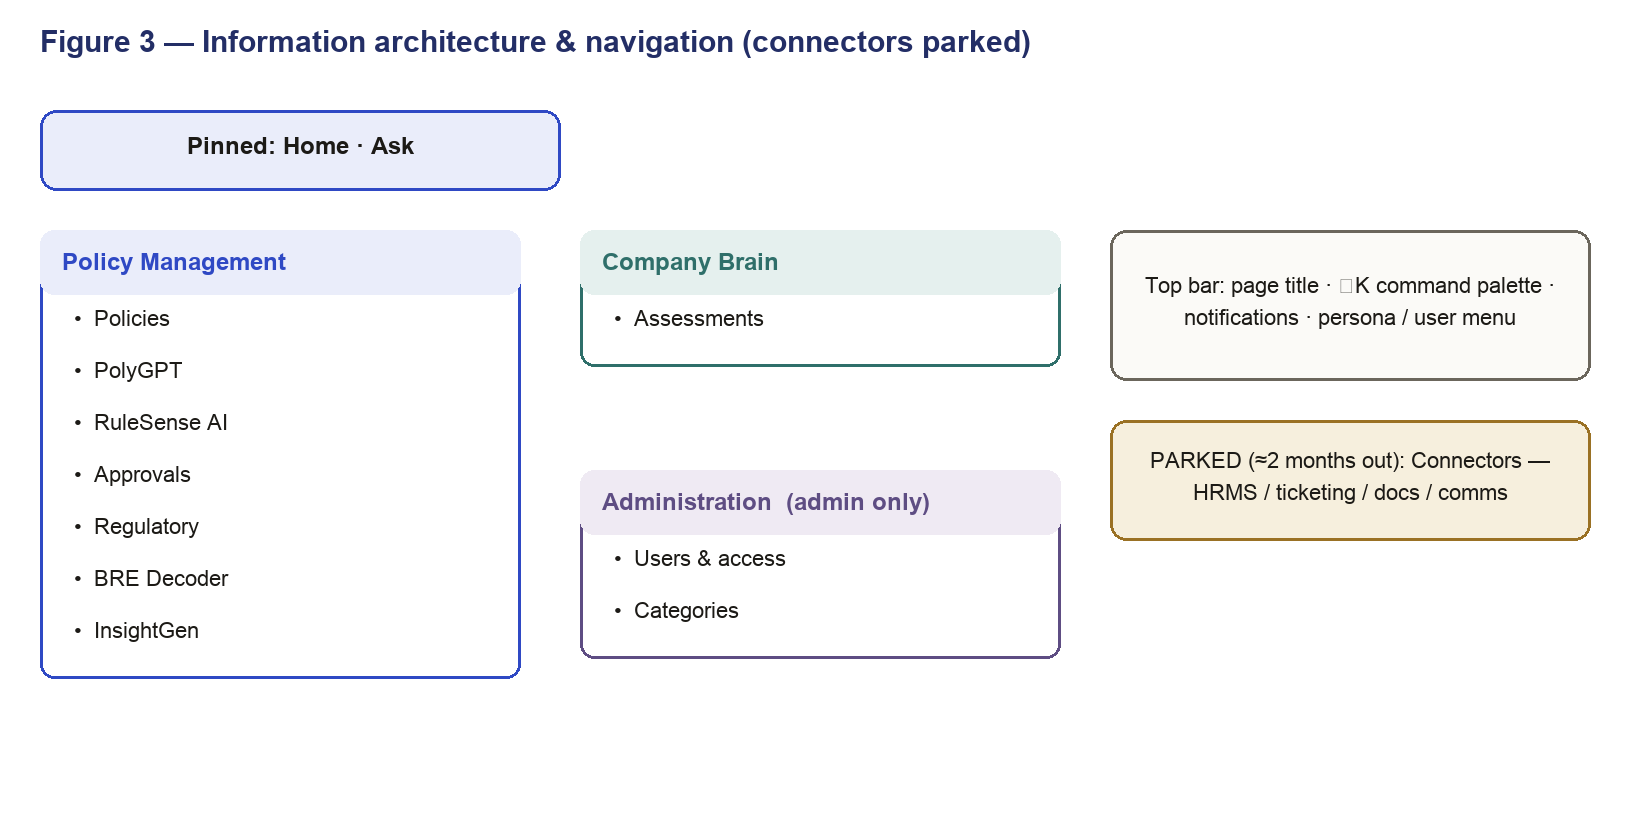
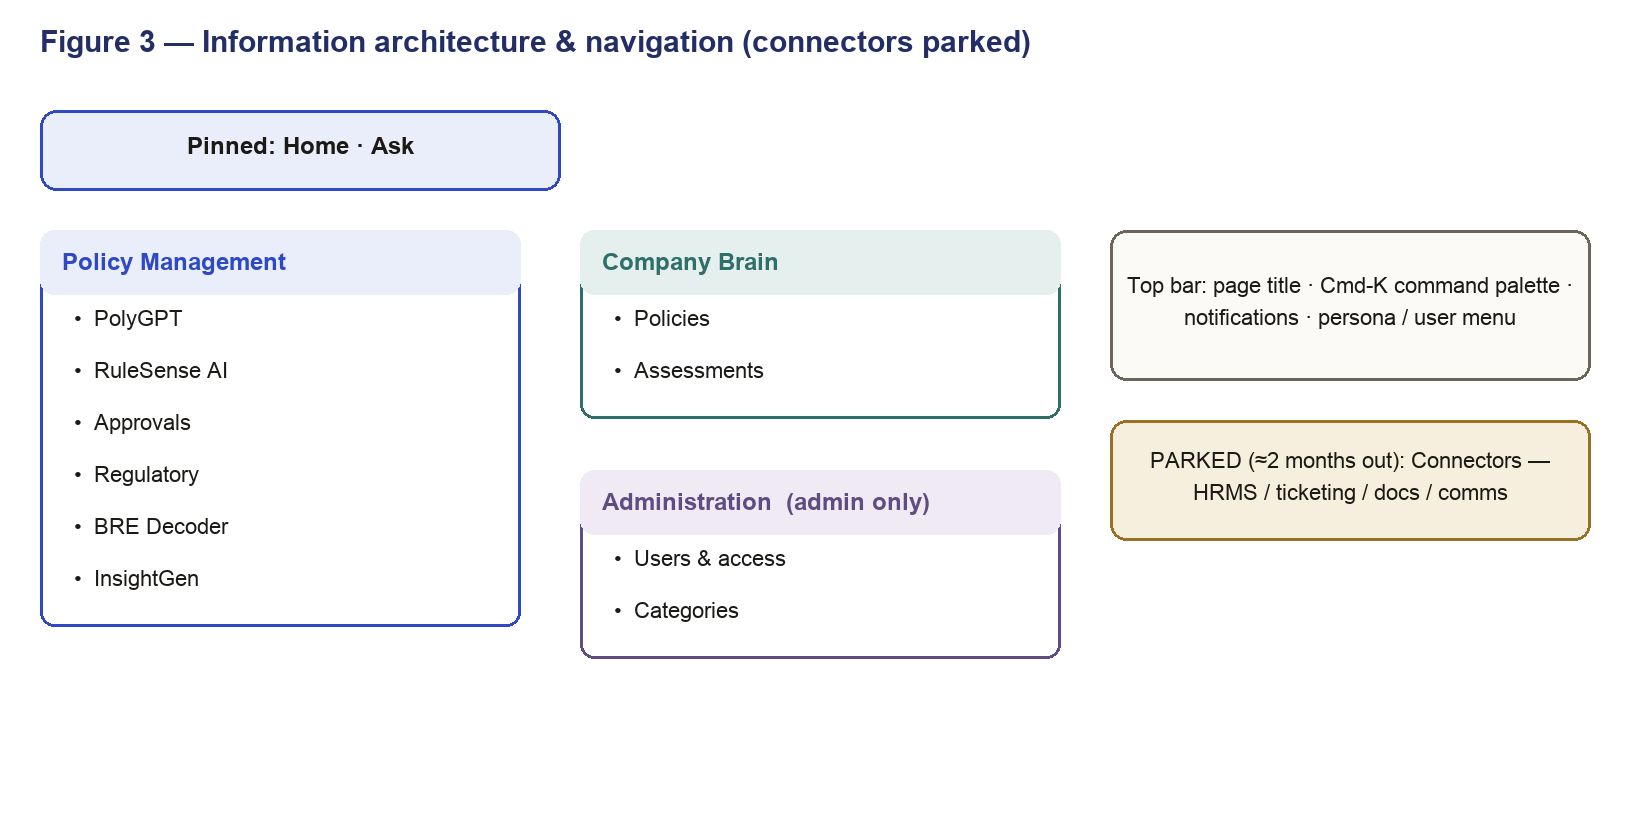
done

diff --git a/views/regulatory.js b/views/regulatory.js
@@ -20,6 +20,9 @@ App.regulatoryView = {
   editor: null,        // { policyId, idx }
   _st: {},             // per-change state: { status:'pending'|'accepted'|'rejected'|'suggested', comment, suggestText, cmtOpen, sent }
   _audit: [],          // module audit trail (most-recent first)
+  autorun: true,       // ON = every release auto-maps onto the affected policies (populates "Policies to review")
+  _amd: {},            // per-release overrides: { decided:'pending'|'in'|'out', removed:{pid:1}, added:[changeObj] }
+  _pickWf: null,       // workflow chosen in the send-for-approval dialog
 
   _refresh() {
     const root = document.getElementById('viewRoot'); if (!root) return;
@@ -28,15 +31,67 @@ App.regulatoryView = {
   },
   _canEdit() { const r = App.currentUser().role; return r === 'admin' || r === 'policy_manager' || r === 'risk_approver'; },
 
+  /* ---------------- per-release override state ---------------- */
+  _amdSt(id) { if (!this._amd[id]) this._amd[id] = { decided: 'pending', removed: {}, added: [] }; return this._amd[id]; },
+  _included(a) { return this.autorun || this._amdSt(a.id).decided === 'in'; },  // is this release in the "Policies to review" queue?
+  // the change set for one release after the reviewer's add/remove of affected policies
+  _effectiveChanges(a) {
+    const st = this._amdSt(a.id);
+    const chs = (a.changes || []).filter(c => !st.removed[c.policyId]);
+    return (st.added && st.added.length) ? chs.concat(st.added) : chs;
+  },
+  _effectivePolicyIds(a) { const seen = {}, out = []; this._effectiveChanges(a).forEach(c => { if (!seen[c.policyId]) { seen[c.policyId] = 1; out.push(c.policyId); } }); return out; },
+
   /* ---------------- aggregation ---------------- */
+  // every suggested change across all releases (respects add/remove, ignores queue inclusion) - drives the editor + stats
   _allChanges() {
     const out = [];
-    (DB.amendments || []).forEach(a => (a.changes || []).forEach(ch => out.push(Object.assign({}, ch, { amendment: a }))));
+    (DB.amendments || []).forEach(a => this._effectiveChanges(a).forEach(ch => out.push(Object.assign({}, ch, { amendment: a }))));
     return out;
   },
   _changesForPolicy(pid) { return this._allChanges().filter(c => c.policyId === pid); },
   _affectedPolicies() { const seen = {}, out = []; this._allChanges().forEach(c => { if (!seen[c.policyId]) { seen[c.policyId] = 1; out.push(c.policyId); } }); return out; },
+  // policies that belong in the "Policies to review" queue (autorun ON = all; OFF = only releases moved in)
+  _reviewPolicies() {
+    const seen = {}, out = [];
+    (DB.amendments || []).forEach(a => { if (!this._included(a)) return; this._effectivePolicyIds(a).forEach(pid => { if (!seen[pid]) { seen[pid] = 1; out.push(pid); } }); });
+    return out;
+  },
   _amendmentsForPolicy(pid) { const seen = {}, out = []; this._changesForPolicy(pid).forEach(c => { if (!seen[c.amendment.id]) { seen[c.amendment.id] = 1; out.push(c.amendment); } }); return out; },
+
+  /* ---------------- autorun toggle + per-release decisions / policy add-remove ---------------- */
+  _toggleAutorun() { this.autorun = !this.autorun; this._log('Auto-mapping ' + (this.autorun ? 'on' : 'off'), this.autorun ? 'Releases map onto policies automatically' : 'Reviewer decides which releases enter the queue'); this._refresh(); },
+  _promote(id) { this._amdSt(id).decided = 'in'; const a = (DB.amendments || []).find(x => x.id === id); this._log('Moved release to review', a ? (a.ref + ' - ' + a.title) : id); this._refresh(); },
+  _dismiss(id) { this._amdSt(id).decided = 'out'; const a = (DB.amendments || []).find(x => x.id === id); this._log('Dismissed release', a ? (a.ref + ' - ' + a.title) : id); this._refresh(); },
+  _resetDecision(id) { this._amdSt(id).decided = 'pending'; this._refresh(); },
+  _removePolicy(amdId, pid) {
+    const st = this._amdSt(amdId); st.added = (st.added || []).filter(c => c.policyId !== pid); st.removed[pid] = 1;
+    const a = (DB.amendments || []).find(x => x.id === amdId); const p = App.policy(pid);
+    this._log('Removed affected policy', (p ? p.name : pid) + ' from ' + (a ? a.ref : amdId)); this._refresh();
+  },
+  _addPolicyModal(amdId) {
+    const a = (DB.amendments || []).find(x => x.id === amdId); if (!a) return;
+    const have = {}; this._effectivePolicyIds(a).forEach(pid => have[pid] = 1);
+    const opts = DB.policies.filter(p => !have[p.id] && App.canViewPolicy(p, App.currentUser()));
+    App.openModal({
+      title: 'Add an affected policy', sub: a.regulator + ' · ' + a.ref + ' - pick a policy this release should also touch.',
+      body: opts.length ? `<div class="reg-picklist">${opts.map(p => `<button class="reg-pick" onclick="App.regulatoryView._addPolicy('${amdId}','${p.id}')">${App.icon('file')}<div style="flex:1;text-align:left"><b>${App.esc(p.name)}</b><div class="muted" style="font-size:12px">${App.esc(p.category)} · ${App.esc(p.sub)}</div></div>${App.icon('plus')}</button>`).join('')}</div>`
+        : App.ui.empty('file', 'No more policies to add', 'Every policy you can access is already mapped to this release.'),
+      footer: `<button class="btn" onclick="App.closeModal()">Close</button>`
+    });
+  },
+  _addPolicy(amdId, pid) {
+    const a = (DB.amendments || []).find(x => x.id === amdId); const p = App.policy(pid); if (!a || !p) return;
+    const st = this._amdSt(amdId); delete st.removed[pid];
+    const already = (a.changes || []).some(c => c.policyId === pid) || (st.added || []).some(c => c.policyId === pid);
+    if (!already) {
+      const fk = Object.keys(p.facts || {})[0] || 'Clause';
+      st.added.push({ id: 'MAN-' + amdId + '-' + pid, policyId: pid, clauseRef: 'Manual review', section: fk,
+        current: (p.facts && p.facts[fk]) || '(current)', suggested: (p.facts && p.facts[fk]) || '',
+        rationale: 'Manually flagged for review against ' + a.regulator + ' ' + a.ref + '. Edit the policy directly, then send for approval.', manual: true });
+    }
+    this._log('Added affected policy', p.name + ' to ' + a.ref); App.closeModal(); this._refresh();
+  },
   st(id) { if (!this._st[id]) this._st[id] = { status: 'pending', comment: '', suggestText: '', cmtOpen: false, sent: false }; return this._st[id]; },
   _log(action, detail) { const u = App.currentUser(); let ts = ''; try { ts = new Date().toLocaleString(); } catch (e) {} this._audit.unshift({ t: ts, user: u ? u.name : '-', role: u ? (DB.roleLabels[u.role] || u.role) : '', action: action, detail: detail || '' }); },
   _auditModal() {
@@ -50,21 +105,37 @@ App.regulatoryView = {
   _renderList(ctx) {
     const all = this._allChanges();
     const affected = this._affectedPolicies();
+    const review = this._reviewPolicies();
     const resolved = all.filter(c => this.st(c.id).status !== 'pending').length;
     const stat = (n, label, ic) => `<div class="reg-stat"><div class="reg-stat__ic">${App.icon(ic)}</div><div><div class="reg-stat__n">${n}</div><div class="reg-stat__l">${label}</div></div></div>`;
 
+    const canEdit = this._canEdit();
     const rel = (DB.amendments || []).map(a => {
-      const pols = []; const seen = {};
-      a.changes.forEach(ch => { if (!seen[ch.policyId]) { seen[ch.policyId] = 1; pols.push(ch.policyId); } });
-      const chips = pols.map(pid => { const p = App.policy(pid); return `<button class="amd-pol" onclick="App.regulatoryView.openEditor('${pid}')">${App.icon('file')} ${p ? App.esc(p.name) : pid}</button>`; }).join('');
-      return `<div class="reg-rel" id="regRelRow" data-n="${App.esc((a.title + ' ' + a.ref + ' ' + a.regulator).toLowerCase())}">
-        <div class="reg-rel__h">${App.ui.pill(a.regulator, 'blue')} <b>${App.esc(a.title)}</b><span class="muted" style="font-size:12px">· ${App.esc(a.ref)} · ${App.esc(a.date)}</span><div style="flex:1"></div>${App.ui.pill(a.changes.length + ' change' + (a.changes.length === 1 ? '' : 's') + ' · ' + pols.length + ' polic' + (pols.length === 1 ? 'y' : 'ies'), 'amber', true)}</div>
+      const st = this._amdSt(a.id);
+      const pols = this._effectivePolicyIds(a);
+      const chCount = this._effectiveChanges(a).length;
+      const included = this._included(a);
+      const dismissed = !this.autorun && st.decided === 'out';
+      const chips = pols.map(pid => { const p = App.policy(pid);
+        return `<span class="amd-pol${canEdit ? ' amd-pol--rm' : ''}"><button class="amd-pol__open" onclick="App.regulatoryView.openEditor('${pid}')">${App.icon('file')} ${p ? App.esc(p.name) : pid}</button>${canEdit ? `<button class="amd-pol__x" title="Remove this policy from the release" onclick="event.stopPropagation();App.regulatoryView._removePolicy('${a.id}','${pid}')">${App.icon('x')}</button>` : ''}</span>`;
+      }).join('');
+      const addBtn = canEdit ? `<button class="amd-addpol" onclick="App.regulatoryView._addPolicyModal('${a.id}')">${App.icon('plus')} Add policy</button>` : '';
+      // decision row appears only when auto-mapping is OFF
+      let decision = '';
+      if (!this.autorun && canEdit) {
+        if (st.decided === 'in') decision = `<div class="reg-rel__decide">${App.ui.pill('Moved to review', 'green', true)}<button class="btn btn--sm" onclick="App.regulatoryView._resetDecision('${a.id}')">Undo</button></div>`;
+        else if (st.decided === 'out') decision = `<div class="reg-rel__decide">${App.ui.pill('Dismissed', 'gray', true)}<button class="btn btn--sm" onclick="App.regulatoryView._resetDecision('${a.id}')">Undo</button></div>`;
+        else decision = `<div class="reg-rel__decide"><span class="muted" style="font-size:12px">Move this release into review?</span><button class="btn btn--sm chg-ok" onclick="App.regulatoryView._promote('${a.id}')">${App.icon('check')} Move to review</button><button class="btn btn--sm chg-no" onclick="App.regulatoryView._dismiss('${a.id}')">${App.icon('x')} Dismiss</button></div>`;
+      }
+      return `<div class="reg-rel${dismissed ? ' is-dismissed' : ''}${!this.autorun && st.decided === 'in' ? ' is-inreview' : ''}" id="regRelRow" data-n="${App.esc((a.title + ' ' + a.ref + ' ' + a.regulator).toLowerCase())}">
+        <div class="reg-rel__h">${App.ui.pill(a.regulator, 'blue')} <b>${App.esc(a.title)}</b><span class="muted" style="font-size:12px">· ${App.esc(a.ref)} · ${App.esc(a.date)}</span><div style="flex:1"></div>${App.ui.pill(chCount + ' change' + (chCount === 1 ? '' : 's') + ' · ' + pols.length + ' polic' + (pols.length === 1 ? 'y' : 'ies'), 'amber', true)}</div>
         <p class="reg-rel__sum">${App.esc(a.summary)}</p>
-        <div class="reg-rel__pols">${chips}</div>
+        <div class="reg-rel__pols">${chips}${addBtn}</div>
+        ${decision}
       </div>`;
     }).join('');
 
-    const polRows = affected.map(pid => {
+    const polRows = review.map(pid => {
       const p = App.policy(pid); const chs = this._changesForPolicy(pid); const amds = this._amendmentsForPolicy(pid);
       const res = chs.filter(c => this.st(c.id).status !== 'pending').length; const done = res === chs.length;
       return `<div class="reg-polrow">
@@ -86,8 +157,14 @@ App.regulatoryView = {
         ${stat(resolved, 'reviewed', 'check')}
       </div>
       <h3 style="margin:18px 0 10px;font-size:15px">Policies to review</h3>
-      <div class="card"><div class="card__body" style="padding:6px 16px">${polRows}</div></div>
-      <h3 style="margin:22px 0 10px;font-size:15px">New regulatory releases</h3>
+      <div class="card"><div class="card__body" style="padding:6px 16px">${polRows || App.ui.empty('check', this.autorun ? 'Nothing to review' : 'No releases in the queue', this.autorun ? 'New releases will map onto the affected policies here.' : 'Auto-mapping is off - move a release into review from the list below.')}</div></div>
+      <div class="reg-relhead">
+        <h3 style="font-size:15px;margin:0">New regulatory releases</h3>
+        <div style="flex:1"></div>
+        ${canEdit ? `<span class="reg-toggle__lbl">Auto-map to affected policies</span>
+          <button class="switch${this.autorun ? ' is-on' : ''}" role="switch" aria-checked="${this.autorun}" title="${this.autorun ? 'On - releases map onto policies automatically' : 'Off - you decide which releases enter review'}" onclick="App.regulatoryView._toggleAutorun()"><span class="switch__dot"></span></button>` : ''}
+      </div>
+      ${canEdit && !this.autorun ? `<div class="info-banner" style="margin-top:0">${App.icon('info')} <span>Auto-mapping is <strong>off</strong>. Tick <strong>Move to review</strong> on a release to send its policies to the queue above, or <strong>Dismiss</strong> to skip it. You can also add or remove the affected policies on any release.</span></div>` : ''}
       <div class="toolbar"><div class="search-input">${App.icon('search')}<input id="regSearch" placeholder="Search releases…"/></div></div>
       ${rel}
     </div>`;
@@ -271,27 +348,74 @@ App.regulatoryView = {
     } catch (e) {}
     App.toast('Opening print view - Save as PDF, sign, then submit to your approval workflow', 'ok');
   },
+  /* Send for approval → first pick the approval workflow (from Approvals › Manage Workflows),
+     so the change follows a defined level-by-level maker-checker chain. */
+  _preferredWorkflow(p) {
+    const wfs = DB.workflows || [];
+    return (p && wfs.find(w => w.category === p.category)) || wfs[0] || null;
+  },
+  _wfChainHtml(w) {
+    if (!w) return '<p class="muted">No workflow defined.</p>';
+    return w.levels.map(l => {
+      const who = l.users.map(uid => { const e = App.emp(uid); return e ? App.esc(e.name) : uid; }).join(', ');
+      const crit = l.criteria === 'All' ? 'All must approve' : l.criteria === 'Anyone' ? 'Anyone can approve' : 'Custom rule';
+      return `<div class="wf-lvl"><span class="step"><span class="step__num">${l.n}</span></span><div style="flex:1"><b style="font-weight:600;font-size:12.5px">Level ${l.n}</b> <span class="tag">${crit}</span><div class="muted" style="font-size:12px;margin-top:2px">${who}</div></div></div>`;
+    }).join('');
+  },
+  _wfOptionHtml(w, sel) {
+    const users = new Set(); w.levels.forEach(l => l.users.forEach(u => users.add(u)));
+    return `<label class="wf-opt${sel ? ' is-sel' : ''}" onclick="App.regulatoryView._pickWorkflow('${w.id}')"><span class="wf-opt__radio"></span>
+      <div style="flex:1"><b style="font-weight:600">${App.esc(w.name)}</b><div class="muted" style="font-size:12px">${App.esc(w.category)} · ${w.levels.length} level${w.levels.length === 1 ? '' : 's'} · ${users.size} approver${users.size === 1 ? '' : 's'}</div></div>
+      ${App.ui.pill(w.status, 'green')}</label>`;
+  },
+  _pickWorkflow(id) {
+    this._pickWf = id;
+    document.querySelectorAll('#wfPick .wf-opt').forEach(el => el.classList.remove('is-sel'));
+    const idx = (DB.workflows || []).findIndex(w => w.id === id);
+    const opts = document.querySelectorAll('#wfPick .wf-opt'); if (opts[idx]) opts[idx].classList.add('is-sel');
+    const chain = document.getElementById('wfChain'); const w = (DB.workflows || []).find(x => x.id === id);
+    if (chain) chain.innerHTML = `<div class="login__label" style="margin-top:14px">Approval chain</div>${this._wfChainHtml(w)}`;
+  },
   _sendApproval() {
     const pid = this.editor.policyId; const p = App.policy(pid);
     const chs = this._changesForPolicy(pid).filter(c => { const s = this.st(c.id); return (s.status === 'accepted' || s.status === 'suggested') && !s.sent; });
     if (!chs.length) { App.toast('Approve or suggest at least one change first', 'warn'); return; }
+    const pref = this._preferredWorkflow(p); this._pickWf = pref ? pref.id : null;
+    App.openModal({
+      title: 'Send for approval', sub: chs.length + ' change' + (chs.length === 1 ? '' : 's') + ' on ' + (p ? p.name : pid) + ' - choose the workflow it should follow.', lg: true,
+      body: `<div class="info-banner" style="margin-top:0">${App.icon('shield')} <span>The change routes through this maker-checker chain, level by level. The requester can never self-approve.</span></div>
+        <div class="login__label">Approval workflow</div>
+        <div id="wfPick">${(DB.workflows || []).map(w => this._wfOptionHtml(w, pref && w.id === pref.id)).join('')}</div>
+        <div id="wfChain"><div class="login__label" style="margin-top:14px">Approval chain</div>${this._wfChainHtml(pref)}</div>`,
+      footer: `<button class="btn" onclick="App.closeModal()">Cancel</button><button class="btn btn--primary" onclick="App.regulatoryView._confirmSend()">${App.icon('send')} Send ${chs.length} change${chs.length === 1 ? '' : 's'}</button>`
+    });
+  },
+  _confirmSend(wfId) {
+    wfId = wfId || this._pickWf;
+    const wf = (DB.workflows || []).find(w => w.id === wfId) || null;
+    const pid = this.editor.policyId; const p = App.policy(pid);
+    const chs = this._changesForPolicy(pid).filter(c => { const s = this.st(c.id); return (s.status === 'accepted' || s.status === 'suggested') && !s.sent; });
+    if (!chs.length) { App.toast('Approve or suggest at least one change first', 'warn'); return; }
     const me = (App.state.user && App.state.user.id) || 'THQ0144'; let n = 0;
+    const firstLevel = wf && wf.levels && wf.levels.length ? wf.levels[0].n : 1;
     chs.forEach(ch => {
       const s = this.st(ch.id); const a = ch.amendment; const to = s.status === 'suggested' ? (s.suggestText || ch.suggested) : ch.suggested;
       const dup = DB.approvals.some(x => x.policy === pid && x.change && x.change.field === ch.section && x.change.to === to && x.sourceRef === a.ref);
       if (!dup) {
         DB.approvals.unshift({ id: 'REQ-' + (2000 + DB.approvals.length), name: (p ? p.name : pid) + ' - ' + ch.section + ' → ' + to,
-          type: 'Regulatory Change', policy: pid, requestedBy: me, on: '23 Jun 2026', priority: 'High', status: 'Pending L1',
+          type: 'Regulatory Change', policy: pid, requestedBy: me, on: '23 Jun 2026', priority: 'High', status: 'Pending L' + firstLevel,
           change: { field: ch.section, from: ch.current, to: to },
           rationale: ch.rationale + (s.status === 'suggested' ? '  Reviewer wording: ' + to : '') + (s.comment ? '  Note: ' + s.comment : ''),
           complianceFlag: 'Matches ' + a.regulator + ' ' + a.ref + ' (' + a.date + '), clause ' + ch.clauseRef + '.',
-          citations: [{ kind: 'policy', id: pid, anchor: ch.section }], sourceRef: a.ref });
+          citations: [{ kind: 'policy', id: pid, anchor: ch.section }], sourceRef: a.ref,
+          workflowId: wf ? wf.id : null, workflow: wf ? wf.name : null });
         n++;
       }
       s.sent = true;
     });
-    this._log('Sent for approval', (p ? p.name : pid) + ' · ' + n + ' change' + (n === 1 ? '' : 's'));
-    App.toast(n ? (n + ' change' + (n === 1 ? '' : 's') + ' sent to Approvals') : 'Already sent for approval', n ? 'ok' : 'warn');
+    this._log('Sent for approval', (p ? p.name : pid) + ' · ' + n + ' change' + (n === 1 ? '' : 's') + (wf ? ' · ' + wf.name : ''));
+    if (App.state.route === 'regulatory') App.closeModal();
+    App.toast(n ? (n + ' change' + (n === 1 ? '' : 's') + ' sent' + (wf ? ' via ' + wf.name : ' to Approvals')) : 'Already sent for approval', n ? 'ok' : 'warn');
     this._syncStep();
   },
 

diff --git a/_selftest.js b/_selftest.js
@@ -199,7 +199,7 @@ chk(Object.keys(_pols58).length >= 3, 'Regulatory: one amendment (AMD-58) affect
 var _plChanges = App.regulatoryView._changesForPolicy('P-PL');
 var _plAmds = {}; _plChanges.forEach(function(c){_plAmds[c.amendment.id]=1;});
 chk(_plChanges.length >= 3 && Object.keys(_plAmds).length >= 2, 'Regulatory: one policy (P-PL) collects changes from multiple amendments');
-chk(typeof App.regulatoryView.openEditor==='function' && typeof App.regulatoryView._downloadPdf==='function' && typeof App.regulatoryView._downloadWord==='function' && typeof App.regulatoryView._sendApproval==='function', 'Regulatory: editor + PDF/Word download + send-for-approval all present');
+chk(typeof App.regulatoryView.openEditor==='function' && typeof App.regulatoryView._downloadPdf==='function' && typeof App.regulatoryView._downloadWord==='function' && typeof App.regulatoryView._sendApproval==='function' && typeof App.regulatoryView._confirmSend==='function', 'Regulatory: editor + PDF/Word download + send-for-approval (workflow chooser) all present');
 chk(App.pdf.build('amendment','AMD-58').pages.length >= 2, 'PDF: amendment renders as a circular-style PDF (left pane)');
 App.regulatoryView.openEditor('P-PL');
 var _ed=null; try { _ed = App.regulatoryView._renderEditor(); } catch(e){ _ed = 'ERR '+e; }
@@ -218,12 +218,40 @@ var _apprBefore = DB.approvals.length;
 try { App.regulatoryView._downloadWord(); } catch(e){}
 try { App.regulatoryView._downloadPdf(); } catch(e){}
 chk(DB.approvals.length === _apprBefore, 'Regulatory: PDF/Word download does NOT route to Approvals (sign offline)');
-// Send for approval DOES route approved + suggested changes
-App.regulatoryView._sendApproval();
+// Send for approval DOES route approved + suggested changes, following the CHOSEN workflow (level-by-level)
+App.regulatoryView._confirmSend('WF1');
 chk(DB.approvals.length === _apprBefore + 2, 'Regulatory: Send-for-approval routes approved + suggested changes to Approvals');
 chk(!!DB.approvals[0].sourceRef && /48%|720/.test(String(DB.approvals[0].change.to)), 'Regulatory: approval carries source ref + reviewer value');
+chk(/Lending Policy Approval/.test(DB.approvals[0].workflow||'') && DB.approvals[0].status==='Pending L1', 'Regulatory: chosen workflow stamped on the request + starts at its first level');
 chk(App.regulatoryView._audit.length > 0, 'Regulatory: audit log records the review actions');
 App.regulatoryView.editor = null; App.regulatoryView._st = {}; App.regulatoryView._audit = [];
+
+// Regulatory: auto-map toggle + per-release move-to-review + add/remove affected policies
+App.regulatoryView.autorun = true; App.regulatoryView._amd = {};
+var _amdId = DB.amendments[0].id;
+var _reviewOn = App.regulatoryView._reviewPolicies().length;
+chk(_reviewOn > 0, 'Regulatory: autorun ON populates the review queue automatically');
+App.regulatoryView._toggleAutorun();
+chk(App.regulatoryView.autorun === false && App.regulatoryView._reviewPolicies().length === 0, 'Regulatory: autorun OFF empties the queue until releases are moved in');
+App.regulatoryView._promote(_amdId);
+chk(App.regulatoryView._reviewPolicies().length > 0, 'Regulatory: moving a release to review adds its policies to the queue');
+App.regulatoryView._dismiss(_amdId);
+chk(App.regulatoryView._amd[_amdId].decided === 'out', 'Regulatory: a release can be dismissed');
+App.regulatoryView._promote(_amdId);
+var _pidsBefore = App.regulatoryView._effectivePolicyIds(DB.amendments[0]).length;
+var _rmPid = DB.amendments[0].changes[0].policyId;
+App.regulatoryView._removePolicy(_amdId, _rmPid);
+chk(App.regulatoryView._effectivePolicyIds(DB.amendments[0]).indexOf(_rmPid) < 0, 'Regulatory: reviewer can remove an affected policy from a release');
+var _origPids = DB.amendments[0].changes.map(function(c){return c.policyId;});
+var _addPid = DB.policies.map(function(p){return p.id;}).find(function(id){ return _origPids.indexOf(id) < 0; });
+var _addChBefore = App.regulatoryView._changesForPolicy(_addPid).length;
+App.regulatoryView._addPolicy(_amdId, _addPid);
+chk(App.regulatoryView._effectivePolicyIds(DB.amendments[0]).indexOf(_addPid) >= 0 && App.regulatoryView._changesForPolicy(_addPid).length === _addChBefore + 1, 'Regulatory: reviewer can add a new affected policy (with an editable manual change)');
+App.regulatoryView.autorun = true; App.regulatoryView._amd = {}; App.regulatoryView.editor = null; App.regulatoryView._st = {}; App.regulatoryView._audit = [];
+
+// Sidebar: "Ask Tara" removed as a nav item for every role (it's the floating launcher instead)
+chk(!App.navModel(admin).pinned.concat(App.navModel(admin).groups.flatMap(function(g){return g.items;})).some(function(i){return i.id==='copilot';}), 'Sidebar: no "Ask Tara" nav item for admin/manager');
+chk(!App.navModel(staff).pinned.some(function(i){return i.id==='copilot';}), 'Sidebar: no "Ask Tara" nav item for staff');
 
 // Tara what-if hook routes to the simulator (RBAC-scoped)
 var simAns = App.askTara('what if we raise the personal loan cibil cutoff to 760', admin);

diff --git a/styles.css b/styles.css
@@ -742,10 +742,34 @@ pre.code .k{color:#b3a7e0;} pre.code .s{color:#9cc7a6;} pre.code .c{color:#8a847
 .reg-rel { border:1px solid var(--line); border-radius:12px; padding:14px 16px; margin-bottom:12px; background:var(--surface); }
 .reg-rel__h { display:flex; align-items:center; gap:8px; flex-wrap:wrap; }
 .reg-rel__sum { font-size:13px; color:var(--ink-2); margin:8px 0 10px; line-height:1.55; }
-.reg-rel__pols { display:flex; gap:8px; flex-wrap:wrap; }
+.reg-rel__pols { display:flex; gap:8px; flex-wrap:wrap; align-items:center; }
 .amd-pol { display:inline-flex; align-items:center; gap:6px; padding:5px 11px; border:1px solid var(--line); border-radius:999px; background:var(--surface-2); font-size:12.5px; color:var(--ink); cursor:pointer; }
 .amd-pol:hover { border-color:var(--brand-500); color:var(--brand-600); }
 .amd-pol .ico { width:13px; height:13px; }
+.amd-pol--rm { padding-right:5px; }
+.amd-pol__open { display:inline-flex; align-items:center; gap:6px; background:none; border:none; padding:0; font:inherit; color:inherit; cursor:pointer; }
+.amd-pol__x { display:grid; place-items:center; width:18px; height:18px; border-radius:50%; border:none; background:var(--surface); color:var(--faint); cursor:pointer; }
+.amd-pol__x:hover { background:var(--red-50, #fbeceb); color:var(--red-600, #b3402e); }
+.amd-pol__x .ico { width:12px; height:12px; }
+.amd-addpol { display:inline-flex; align-items:center; gap:5px; padding:5px 11px; border:1px dashed var(--line); border-radius:999px; background:none; font-size:12.5px; color:var(--muted); cursor:pointer; }
+.amd-addpol:hover { border-color:var(--brand-500); color:var(--brand-600); }
+.amd-addpol .ico { width:13px; height:13px; }
+.reg-rel__decide { display:flex; align-items:center; gap:8px; flex-wrap:wrap; margin-top:11px; padding-top:11px; border-top:1px dashed var(--line); }
+.reg-rel.is-dismissed { opacity:.55; }
+.reg-rel.is-inreview { border-color:#bcd3c2; box-shadow:inset 3px 0 0 var(--green-600); }
+.reg-relhead { display:flex; align-items:center; gap:10px; margin:22px 0 10px; }
+.reg-toggle__lbl { font-size:12.5px; color:var(--muted); }
+.switch { position:relative; width:38px; height:22px; border-radius:999px; border:1px solid var(--line); background:var(--surface-2); cursor:pointer; padding:0; flex:0 0 auto; transition:background .15s,border-color .15s; }
+.switch.is-on { background:var(--brand-600); border-color:var(--brand-600); }
+.switch__dot { position:absolute; top:2px; left:2px; width:16px; height:16px; border-radius:50%; background:#fff; box-shadow:0 1px 2px rgba(0,0,0,.25); transition:left .15s; }
+.switch.is-on .switch__dot { left:18px; }
+.wf-opt { display:flex; align-items:center; gap:11px; padding:11px 13px; border:1px solid var(--line); border-radius:10px; background:var(--surface); cursor:pointer; margin-bottom:8px; }
+.wf-opt:hover { border-color:var(--brand-500); }
+.wf-opt.is-sel { border-color:var(--brand-600); background:var(--brand-50); }
+.wf-opt__radio { width:16px; height:16px; border-radius:50%; border:2px solid var(--line); flex:0 0 auto; }
+.wf-opt.is-sel .wf-opt__radio { border-color:var(--brand-600); background:radial-gradient(circle at center, var(--brand-600) 0 4px, transparent 5px); }
+.wf-lvl { display:flex; align-items:flex-start; gap:10px; padding:9px 0; border-bottom:1px solid var(--line); }
+.wf-lvl:last-child { border-bottom:none; }
 .reg-polrow { display:flex; align-items:center; gap:12px; padding:11px 4px; border-bottom:1px solid var(--line); }
 .reg-polrow:last-child { border-bottom:none; }
 

diff --git a/core.js b/core.js
@@ -322,12 +322,13 @@ window.App = (function () {
   /* ---------------- nav model (role-aware) ---------------- */
   function navModel(user) {
     if (user.role === 'user') {
-      return { pinned: [ { id:'dashboard', label:'Home', icon:'home' }, { id:'copilot', label:'Ask Tara', icon:'sparkles', tag:'AI' } ],
+      return { pinned: [ { id:'dashboard', label:'Home', icon:'home' } ],
         groups: [
           { title:'Company Brain', items:[ {id:'policies',label:'Policies',icon:'file'}, {id:'polygpt',label:'PolyGPT',icon:'chat'}, {id:'assessments',label:'My Assessments',icon:'clipboard'} ] }
         ] };
     }
-    const pinned = [ { id:'dashboard', label:'Dashboard', icon:'home' }, { id:'copilot', label:'Ask Tara', icon:'sparkles', tag:'AI' } ];
+    // Ask Tara has no sidebar entry - it's the floating launcher (bottom-right), reachable from anywhere.
+    const pinned = [ { id:'dashboard', label:'Dashboard', icon:'home' } ];
     // Company Brain: the policy knowledge surface - Policies live here, alongside Assessments
     const brain = [ { id:'policies', label:'Policies', icon:'file' } ];
     if (user.role==='policy_manager'||user.role==='admin'||user.role==='assessment_manager') brain.push({ id:'assessments', label:'Assessments', icon:'clipboard' });
@@ -385,8 +386,6 @@ window.App = (function () {
             <button class="topbar__btn" onclick="App.toggleSidebar()" title="Toggle sidebar">${App.icon('menu')}</button>
             <div id="tbTitle" class="topbar__title"></div>
             <div class="topbar__spacer"></div>
-            <button class="topbar__btn" onclick="App.cmd.open()" title="Command (⌘K)">${App.icon('command')}</button>
-            <button class="topbar__btn" title="Notifications">${App.icon('bell')}</button>
             <div style="position:relative">
               <button class="userchip" onclick="App.toggleUserMenu(event)">
                 ${App.ui.avatar(u)}